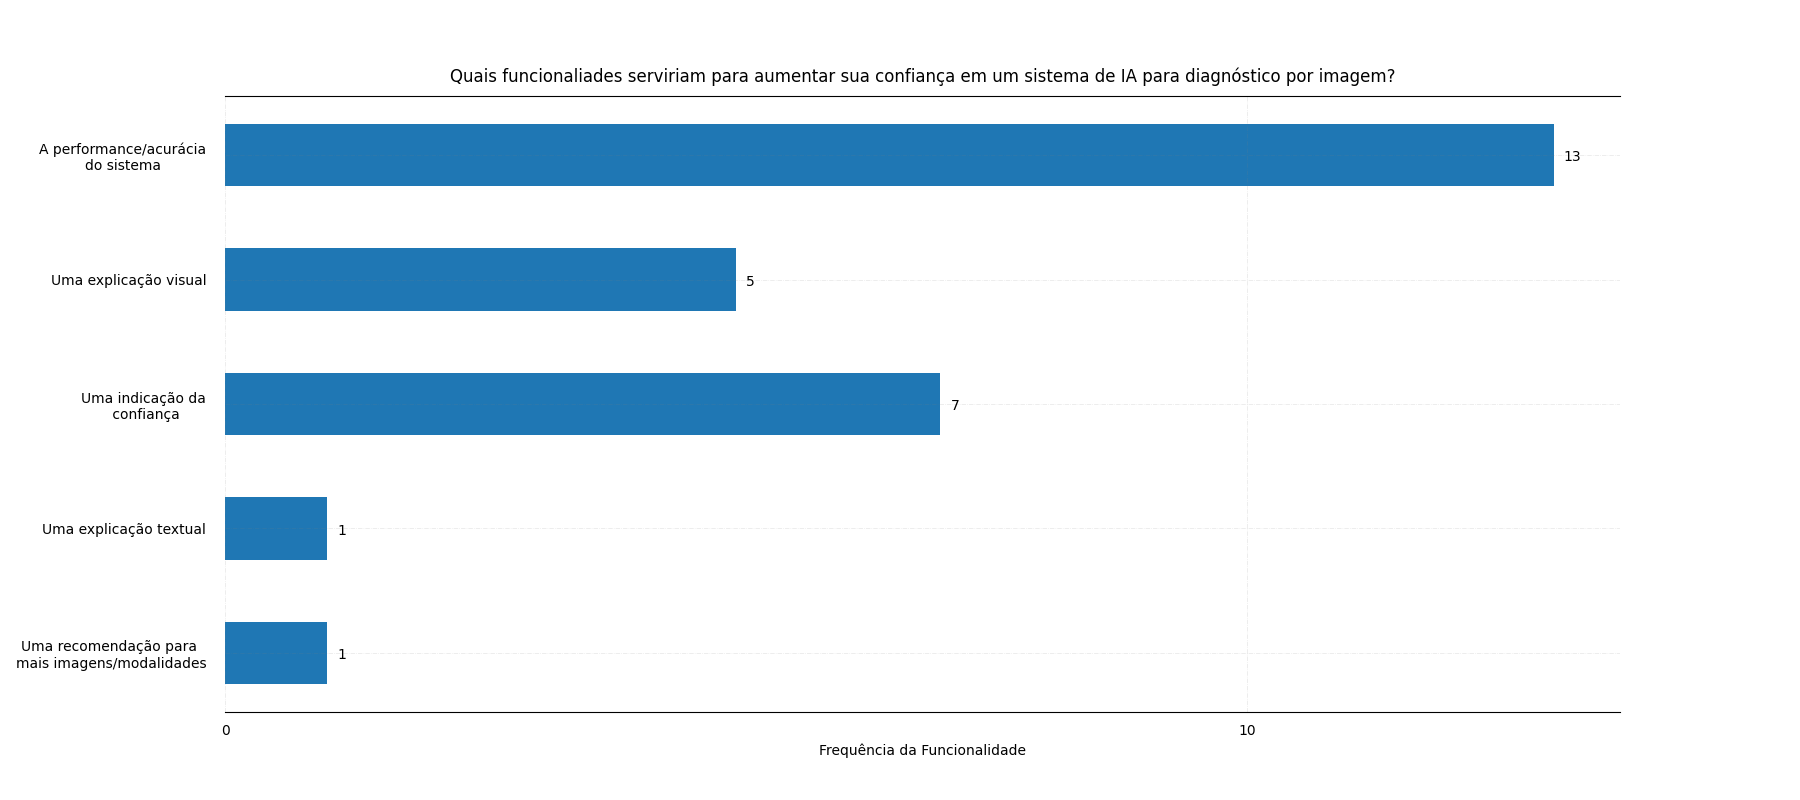
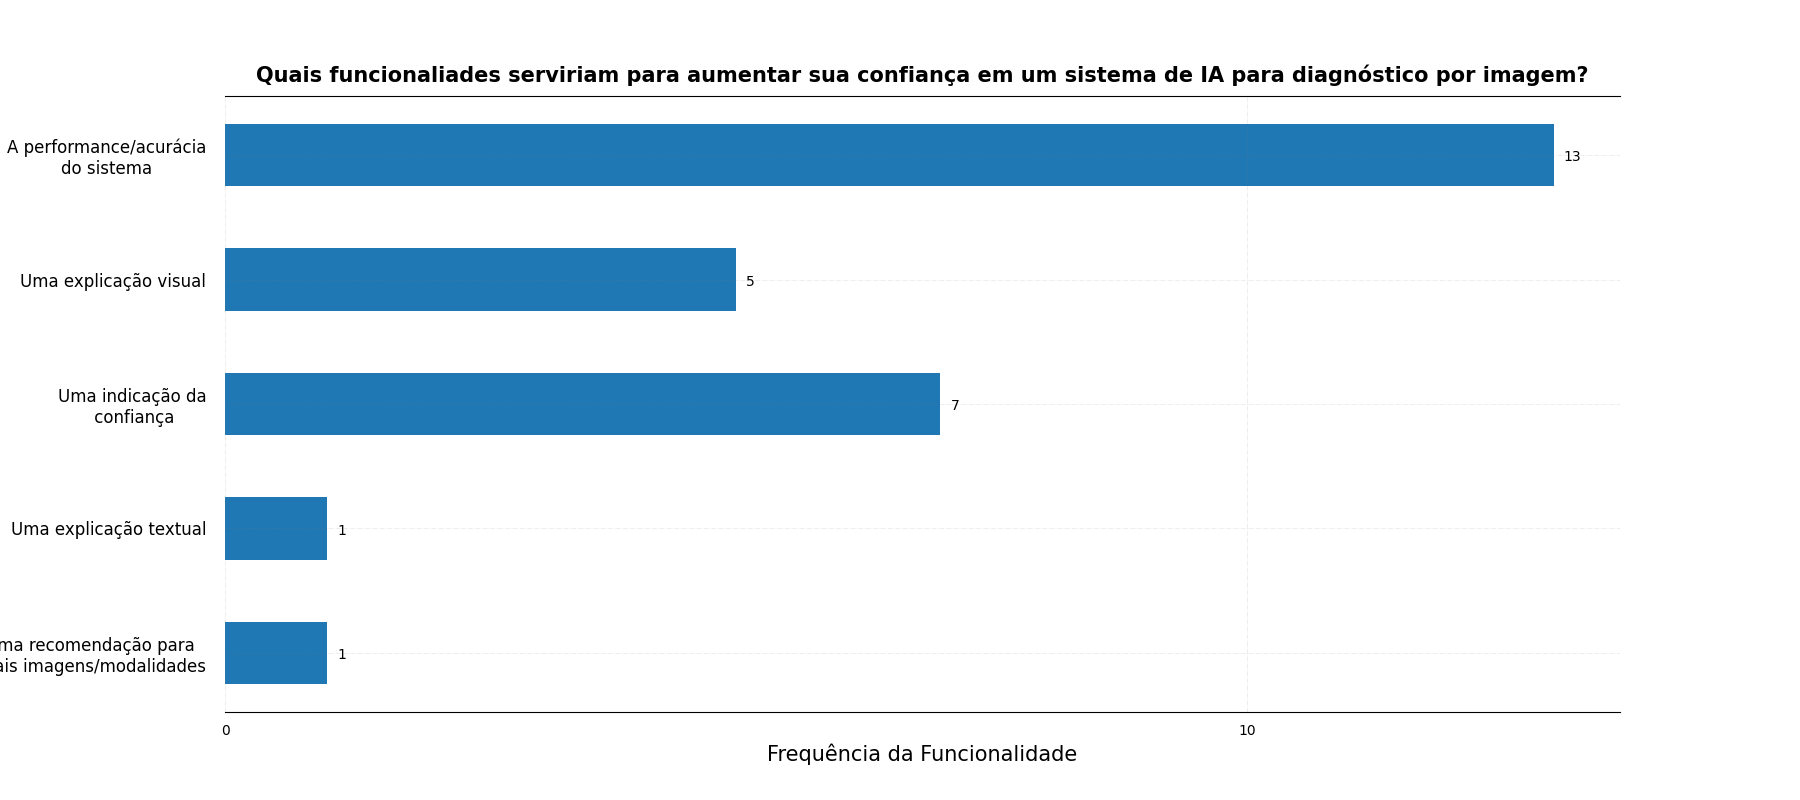
fix: fixing the graphs fontsizes (legend and title)

diff --git a/src/stats/generate_stats.py b/src/stats/generate_stats.py
@@ -1,22 +1,14 @@
+from email.policy import strict
+from re import split
+import string
+
 import pandas as pd
-from scipy.stats import spearmanr, kendalltau
+from scipy.stats import spearmanr, kendalltau, kruskal
 
 # campo identificador da base de dados de repostas
 ID_FIELD = "data_hora"
 
-def calculate_spearmanr(df: pd.DataFrame, fields: tuple) -> tuple[float, float]:
-    """
-    Calcula o coeficiente de correlação de Spearman em relação a duas colunas específícas.  
-
-    Nesta função, é realizado um mapeamento das possíveis repostas para valores numéricos, o que permite o cálculo efetivo do coeficiente.
-    Além disso, são excluídos valores nulos, o que facilita o cálculo estatístico.
-
-    Parâmetros:
-        df (pd.DataFrame): DataFrame original, contendo os dados e o identificador geral.
-        fields (tuple): Tupla contendo as duas colunas a serem analisadas.
-    Retorno:
-        tuple[float, float]: Tupla contendo o coeficiente de correlação e o valor de "p" (rho, p).
-    """
+def modularizating_data(df: pd.DataFrame, fields: tuple):
     global ID_FIELD
 
     # Evitar Warning de Pandas
@@ -43,6 +35,43 @@ def calculate_spearmanr(df: pd.DataFrame, fields: tuple) -> tuple[float, float]:
     # Restaura a ordem dos índices
     strict_df = strict_df.reset_index(drop=True)
 
+    return strict_df
+
+def filter_by_sector_avaliation(df: pd.DataFrame, sector_name, avaliation_columnn):
+    sector_df = df[df["area_atuacao"] == sector_name]
+
+    return list(sector_df[avaliation_columnn])
+
+def calculate_kruskal_av_ai_app(df: pd.DataFrame) -> tuple[float, float]:
+    av_app_ai_physics = map(lambda x: int(x.split(" - ")[0]), filter_by_sector_avaliation(df, "Médico Especialista", "av_aplicacao_ia"))
+    av_app_ai_physics = list(av_app_ai_physics)
+    
+    av_app_ai_resident = map(lambda x: int(x.split(" - ")[0]), filter_by_sector_avaliation(df, "Médico Residente", "av_aplicacao_ia"))
+    av_app_ai_resident = list(av_app_ai_resident)
+
+    av_app_ai_tecnics = map(lambda x: int(x.split(" - ")[0]), filter_by_sector_avaliation(df, "Técnico em Radiologia", "av_aplicacao_ia"))
+    av_app_ai_tecnics = list(av_app_ai_tecnics)
+
+    mn, p = kruskal(av_app_ai_physics, av_app_ai_resident, av_app_ai_tecnics)
+
+    return (float(mn), float(p))
+
+
+
+def calculate_spearmanr(df: pd.DataFrame, fields: tuple) -> tuple[float, float]:
+    """
+    Calcula o coeficiente de correlação de Spearman em relação a duas colunas específícas.  
+
+    Nesta função, é realizado um mapeamento das possíveis repostas para valores numéricos, o que permite o cálculo efetivo do coeficiente.
+    Além disso, são excluídos valores nulos, o que facilita o cálculo estatístico.
+
+    Parâmetros:
+        df (pd.DataFrame): DataFrame original, contendo os dados e o identificador geral.
+        fields (tuple): Tupla contendo as duas colunas a serem analisadas.
+    Retorno:
+        tuple[float, float]: Tupla contendo o coeficiente de correlação e o valor de "p" (rho, p).
+    """
+    strict_df = modularizating_data(df, fields)
     sp, p = spearmanr(strict_df[fields[0]], strict_df[fields[1]])
 
     return (float(sp), float(p))
@@ -61,32 +90,15 @@ def calculate_kendallt(df: pd.DataFrame, fields: tuple) -> tuple[float, float]:
     Retorno:
         tuple[float, float]: Tupla contendo o coeficiente de correlação e o valor de "p" (tau, p).
     """
-    global ID_FIELD
-
-    # Evitar Warning de Pandas
-    strict_df = df[list(fields)].copy() 
-    # Excluir valores NaN
-    strict_df = strict_df.dropna() 
-
-    mapping = dict()
-
-    # Ordenando dados (alfabeticamente) no set para evitar inconsistências no mapeamento
-    possible_answers = sorted(set(strict_df[fields[0]])) 
-
-    idx = 0
-
-    for ans in possible_answers:
-        mapping[ans] = idx
-        idx += 1
-
-    strict_df[fields[0]] = strict_df[fields[0]].map(mapping)
-    strict_df[fields[1]] = strict_df[fields[1]].map(mapping)
-
-    strict_df = strict_df.dropna()
-    
-    # Restaura a ordem dos índices
-    strict_df = strict_df.reset_index(drop=True)
-
+    strict_df = modularizating_data(df, fields)
     kt, p = kendalltau(strict_df[fields[0]], strict_df[fields[1]])
 
     return (float(kt), float(p))
+
+if __name__ == "__main__":
+    CSV_PATH = "data/csv_files/respostas.csv"
+    
+    df = pd.read_csv(CSV_PATH)
+    ks_stats = calculate_kruskal_av_ai_app(df)
+
+    print(f"ks: {ks_stats[0]:.4f}, p: {ks_stats[1]:.15f}")

diff --git a/src/plot/generate_graphs.py b/src/plot/generate_graphs.py
@@ -15,7 +15,7 @@ def generate_graph_1(df):
                         figsize=(8, 8),
                         ylabel='')
     
-    plt.title("Proporção de Cargos", fontsize=10)
+    plt.title("Proporção de Cargos", fontsize=10, fontweight='bold')
 
     # Adiciona uma legenda lateral para ficar mais organizado
     plt.legend(df_speciality.index, title="Cargos", loc="upper left", bbox_to_anchor=(1.20, 1.20))
@@ -88,9 +88,9 @@ def generate_graph_3(df: pd.DataFrame):
         multiplier += 1
 
     ax.set_ylabel('%')
-    ax.set_title(title)
+    ax.set_title(title, fontsize=14, fontweight='bold')
     ax.set_xticks(x + adjustment, answer_categories)
-    ax.legend(loc='upper right', ncols=1)
+    ax.legend(loc='upper right', ncols=1, fontsize=10.7)
     ax.set_ylim(0, 80)
 
     plt.savefig(PATH + "graph3.png")
@@ -113,7 +113,8 @@ def generate_graph_4(df: pd.DataFrame):
 
     ax.set_xticks(range(len(categories)))
     ax.set_ylabel('%')
-    ax.set_title(title, pad=20)
+    title_obj = ax.set_title(title, pad=20, fontsize=17, wrap=True, fontweight='bold')
+    title_obj._get_wrap_line_width = lambda: 1500
     ax.set_ylim(0, max(values_to_plot) + 5)
 
     plt.savefig(PATH + "graph4.png")
@@ -142,21 +143,21 @@ def generate_graph_5(df: pd.DataFrame):
     ax.xaxis.set_ticks_position('none')
     ax.yaxis.set_ticks_position('none')
 
-    ax.set_yticklabels(ans_poss_labels, ma='center')
+    ax.set_yticklabels(ans_poss_labels, ma='center', fontsize=12)
 
     for s in ('left', 'right'):
         ax.spines[s].set_visible(False)
 
     ax.invert_yaxis()
 
-    ax.set_xlabel('Frequência da Funcionalidade')
+    ax.set_xlabel('Frequência da Funcionalidade', fontsize=15)
 
     ax.grid(visible=True, color='grey', linestyle='-.', linewidth=0.5, alpha=0.2)
 
     for i in ax.patches:
         plt.text(i.get_width()+0.1, i.get_y()+0.3, str(round((i.get_width()), 2)), fontsize=10, color='black', ma='center')
 
-    ax.set_title(title, pad=10)
+    ax.set_title(title, pad=10, fontsize=15, fontweight='bold')
 
     plt.savefig(PATH + "graph5.png")
 
@@ -179,7 +180,7 @@ def generate_graph_6(df: pd.DataFrame):
 
     ax.set_xticks(range(len(rates))) # isso permite que todos os valores (eixo-x) de rate apareçam, sem perder os dados
     ax.set_xticklabels(rates)
-    ax.set_ylabel('Frequência')
+    ax.set_ylabel('Frequência', fontsize=12)
     ax.set_xlabel('Avaliação')
     ax.set_ylim(0, max(times_chosen) + 5)
     ax.set_title('Como você avalia a aplicação de inteligência artificial no diagnóstico radiológico?', fontweight='bold')
